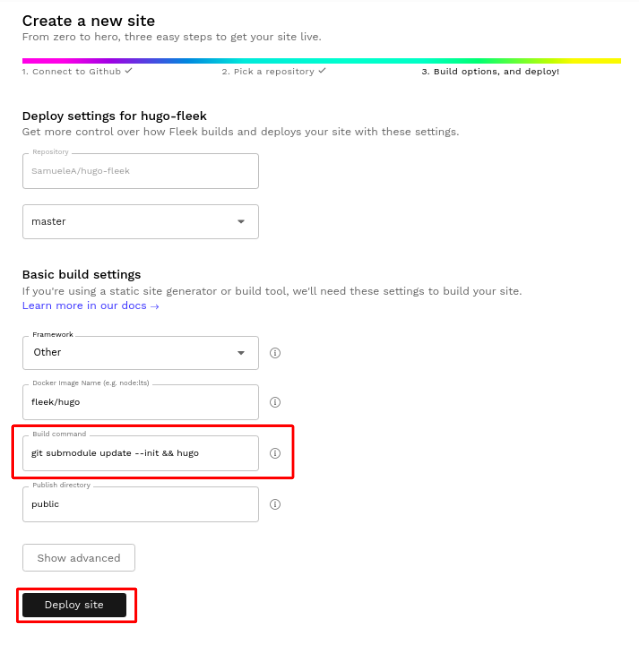
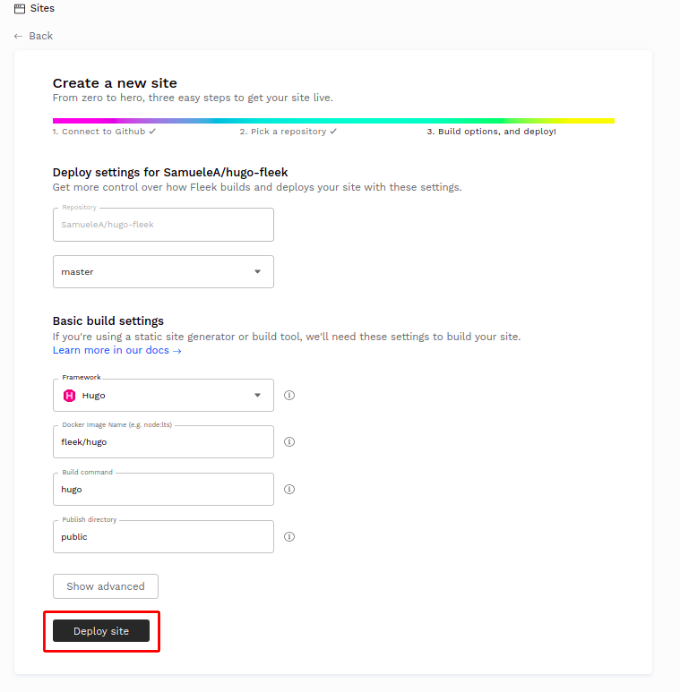
hugo-fleek remove mention of subdomule

diff --git a/content/posts/2020-04-11-Hugo-fleek.md b/content/posts/2020-04-11-Hugo-fleek.md
@@ -345,13 +345,11 @@ Select the repo containing the Hugo blog.
 
 ![](./Hugo/2-select-repo.png)
 
-Now we must enter the build settings. Luckily for us, Fleek auto-detects our Hugo settings and fills the fields for us. There is only one change we need to make. Remember how we added the Terminal theme as a git submodule? We'll have to take this factor into account by downloading the module before building with Hugo.
-
-So, we will modify the `build settings` for `git submodule update --init && Hugo`.
+Now we must enter the build settings. Luckily for us, Fleek auto-detects our Hugo settings and fills the fields for us, so we don't have anything to change!
 
 ![](./Hugo/3-settings-submodule.png)
 
-Next, we click “DEPLOY SITE” and wait until the completion of the deployment. The screen will look like this once it is done:
+Next, we click `DEPLOY SITE` button and wait until the completion of the deployment. The screen will look like this once it is done:
 
 ![](./Hugo/4-success-deploy.png)
 
